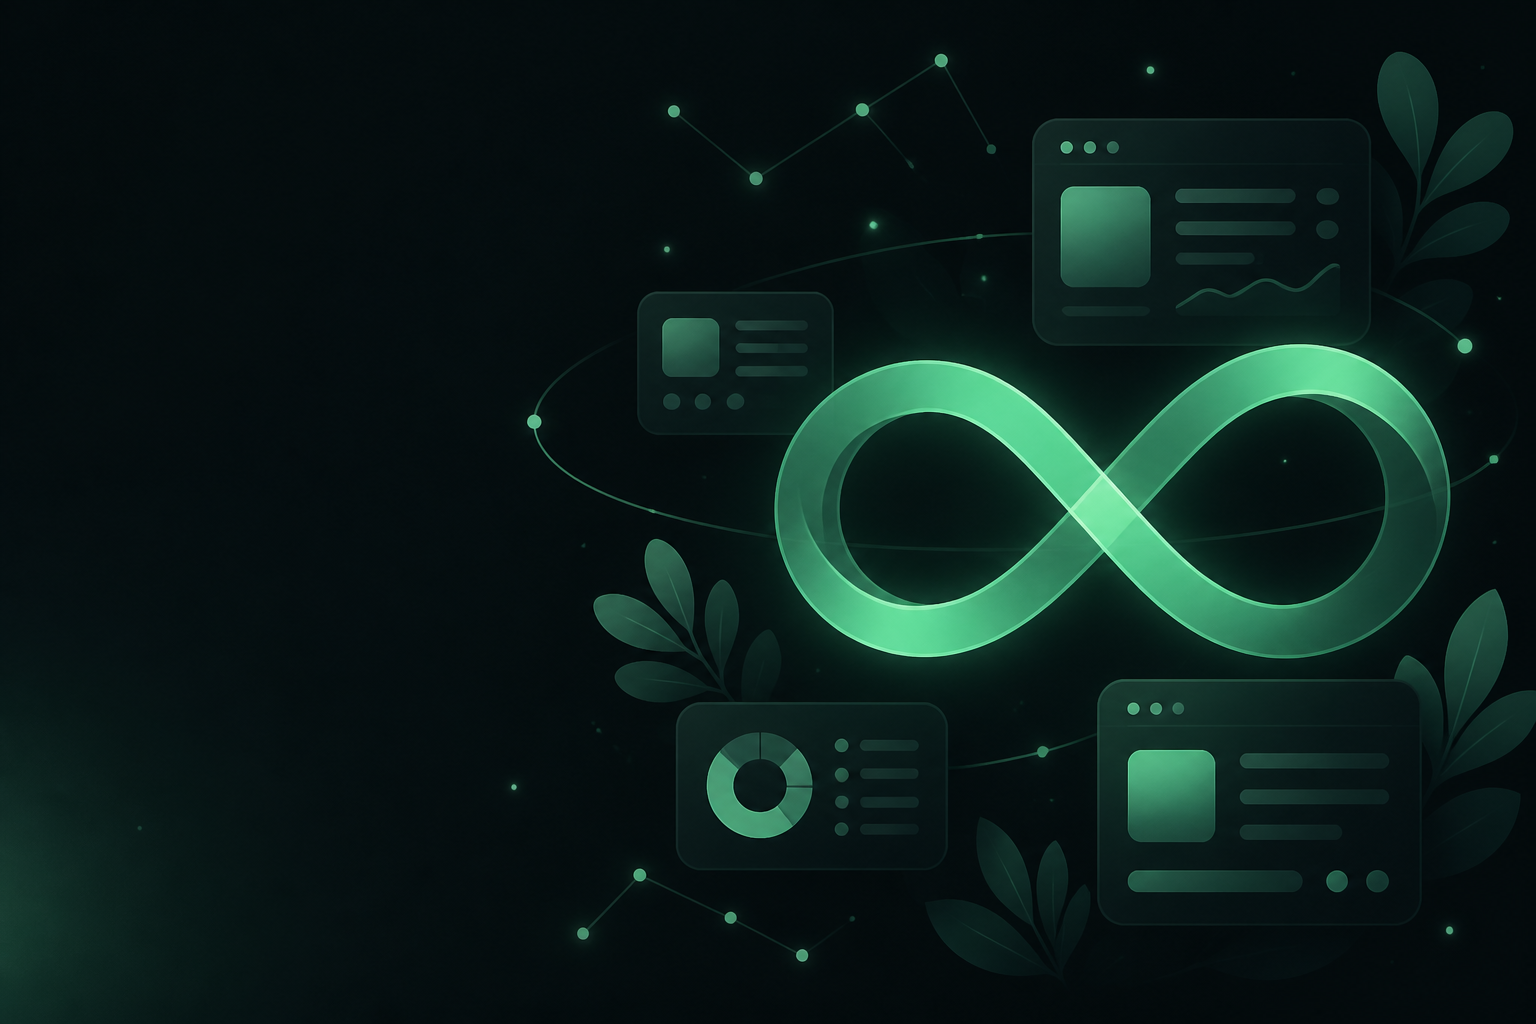
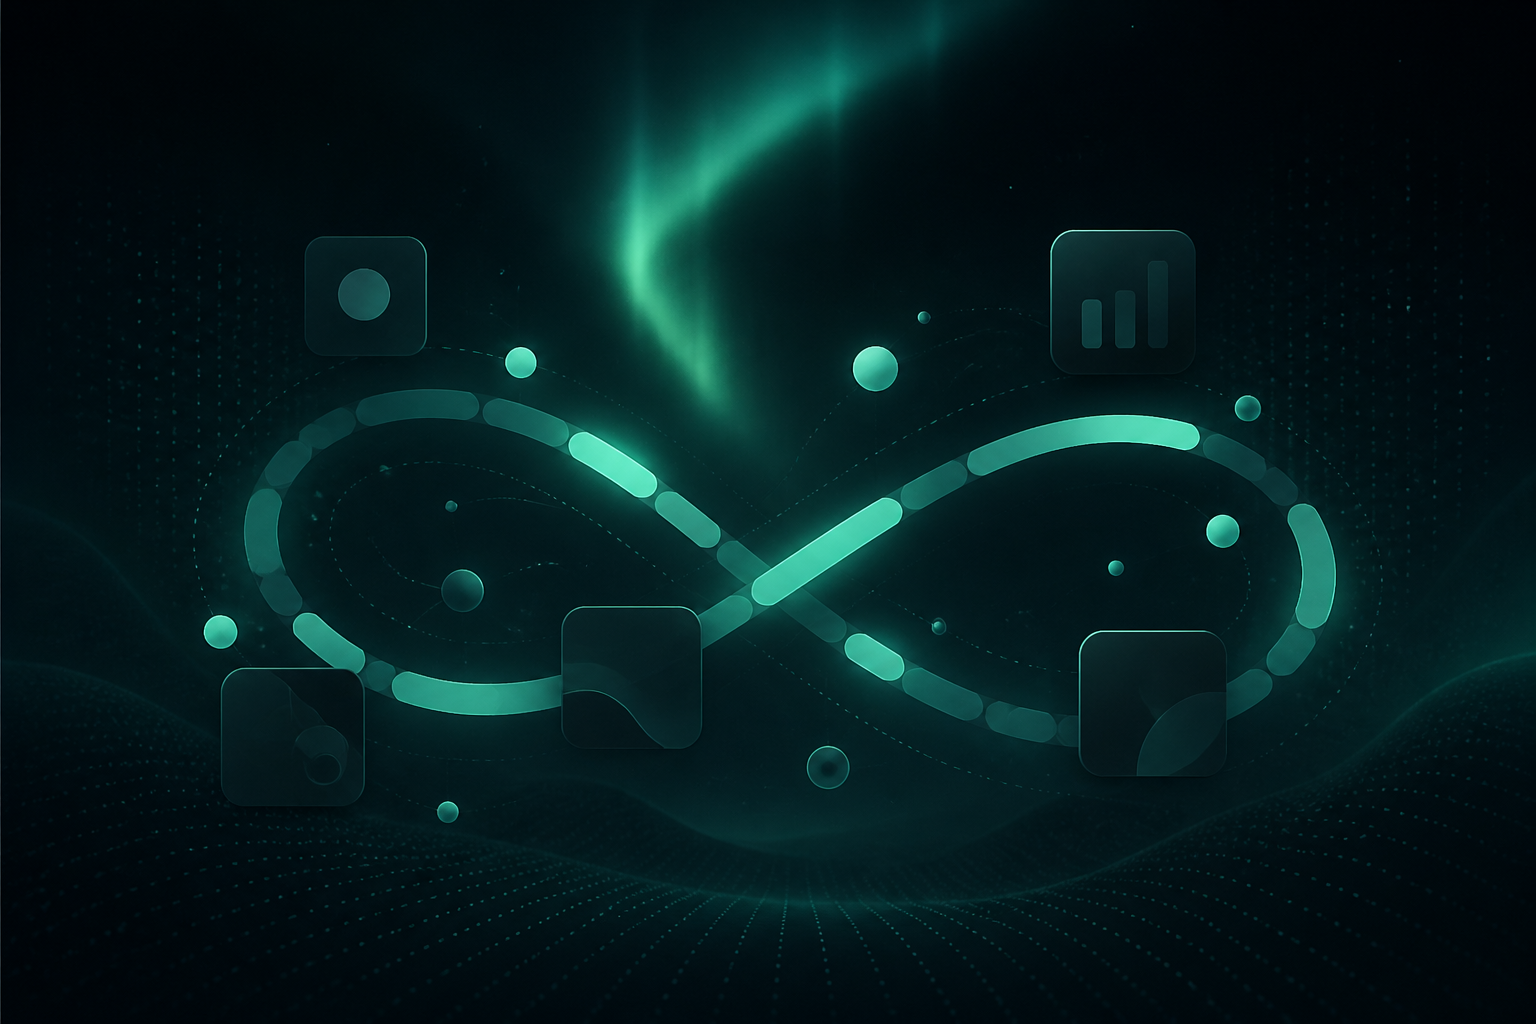
About photo swap + aurora dark hero cover
Move the Modest Wilton cartoon illustration to the About hero, place
his real portrait in the founder section, and replace the homepage
hero cover with a center-weighted dark infinity aurora that reads
cleaner on desktop and mobile.

diff --git a/app/globals.css b/app/globals.css
@@ -284,17 +284,17 @@ ul[role="list"] { list-style: none; }
   width: 100%;
   height: 100%;
   object-fit: cover;
-  object-position: 68% center;
-  transform: scale(1.03);
+  object-position: center center;
+  transform: scale(1.02);
   filter: none;
-  animation: hero-breathe-soft 18s ease-in-out infinite alternate;
+  animation: hero-breathe-soft 20s ease-in-out infinite alternate;
 }
 .ch-wash {
   position: absolute;
   inset: 0;
   background:
-    linear-gradient(105deg, rgba(8, 16, 12, 0.72) 0%, rgba(8, 16, 12, 0.42) 38%, rgba(8, 16, 12, 0.12) 70%, rgba(8, 16, 12, 0.28) 100%),
-    linear-gradient(180deg, rgba(8, 16, 12, 0.35) 0%, transparent 32%, rgba(8, 16, 12, 0.55) 100%);
+    linear-gradient(105deg, rgba(6, 12, 10, 0.78) 0%, rgba(6, 12, 10, 0.45) 36%, rgba(6, 12, 10, 0.18) 62%, rgba(6, 12, 10, 0.35) 100%),
+    linear-gradient(180deg, rgba(6, 12, 10, 0.4) 0%, transparent 34%, rgba(6, 12, 10, 0.62) 100%);
 }
 .ch-stage {
   position: relative;
@@ -1055,6 +1055,17 @@ ul[role="list"] { list-style: none; }
   height: 100%;
   object-fit: cover;
 }
+.founder-art--photo {
+  aspect-ratio: 4 / 5;
+  background: #d7e0da;
+  max-height: 560px;
+  justify-self: start;
+  width: min(100%, 420px);
+}
+.founder-art--photo img {
+  object-position: center top;
+  filter: none;
+}
 .founder-copy h2 {
   font-family: var(--display);
   font-size: clamp(2.2rem, 5vw, 3.8rem);
@@ -1409,11 +1420,11 @@ ul[role="list"] { list-style: none; }
   .top-cta { display: none; }
   .top { grid-template-columns: 1fr auto; }
   .ch-stage { padding-bottom: 3.2rem; max-width: 100%; }
-  .ch-media img { object-position: 55% 40%; }
+  .ch-media img { object-position: center 45%; }
   .ch-wash {
     background:
-      linear-gradient(180deg, rgba(8, 16, 12, 0.45) 0%, rgba(8, 16, 12, 0.2) 35%, rgba(8, 16, 12, 0.72) 100%),
-      linear-gradient(90deg, rgba(8, 16, 12, 0.55) 0%, rgba(8, 16, 12, 0.15) 100%);
+      linear-gradient(180deg, rgba(6, 12, 10, 0.5) 0%, rgba(6, 12, 10, 0.22) 38%, rgba(6, 12, 10, 0.78) 100%),
+      linear-gradient(90deg, rgba(6, 12, 10, 0.55) 0%, rgba(6, 12, 10, 0.2) 100%);
   }
   .blast-form { grid-template-columns: 1fr; }
   .case-body, .work-grid, .stack-grid { grid-template-columns: 1fr; }

diff --git a/app/about/page.tsx b/app/about/page.tsx
@@ -152,6 +152,7 @@ export default function AboutPage() {
         ],
         description:
           "Software developer, technology educator, and entrepreneur. Founder & CEO of Looping Binary in Douala, Cameroon.",
+        image: `${SITE_URL}/assets/team/tatoh-modest-wilton.jpg`,
         nationality: "CM",
         knowsAbout: [
           "Software engineering",
@@ -188,7 +189,7 @@ export default function AboutPage() {
         </div>
         <div className="doc-hero-art" aria-hidden="true">
           {/* eslint-disable-next-line @next/next/no-img-element */}
-          <img src="/assets/illustrations/illust-welcome.png" alt="" />
+          <img src="/assets/illustrations/illust-founder.png" alt="" />
         </div>
       </section>
 
@@ -261,9 +262,12 @@ export default function AboutPage() {
       </section>
 
       <section className="founder" id="founder" aria-labelledby="founder-title">
-        <div className="founder-art" aria-hidden="true">
+        <div className="founder-art founder-art--photo">
           {/* eslint-disable-next-line @next/next/no-img-element */}
-          <img src="/assets/illustrations/illust-founder.png" alt="" />
+          <img
+            src="/assets/team/tatoh-modest-wilton.jpg"
+            alt="Tatoh Modest Wilton, Founder and CEO of Looping Binary"
+          />
         </div>
         <div className="founder-copy">
           <p className="eyebrow">Meet the founder</p>

diff --git a/components/JsonLd.tsx b/components/JsonLd.tsx
@@ -21,6 +21,7 @@ export default function JsonLd() {
           name: "Tatoh Modest Wilton",
           alternateName: ["Modest Wilton", "Tatoh Modest"],
           url: "https://tatohmodest.vercel.app",
+          image: `${SITE_URL}/assets/team/tatoh-modest-wilton.jpg`,
           sameAs: [
             "https://www.linkedin.com/in/tatoh-modest-97036a212/",
             "https://github.com/tatohmodest",
